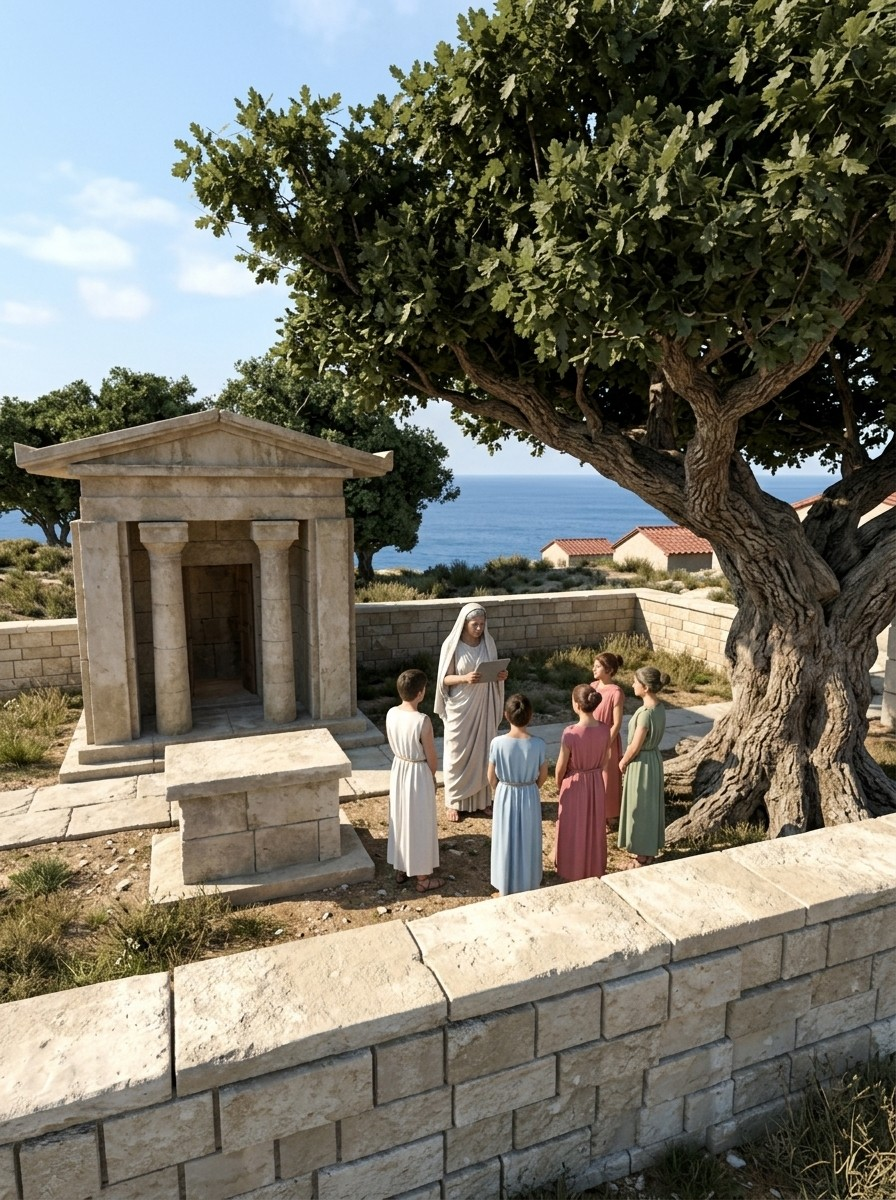
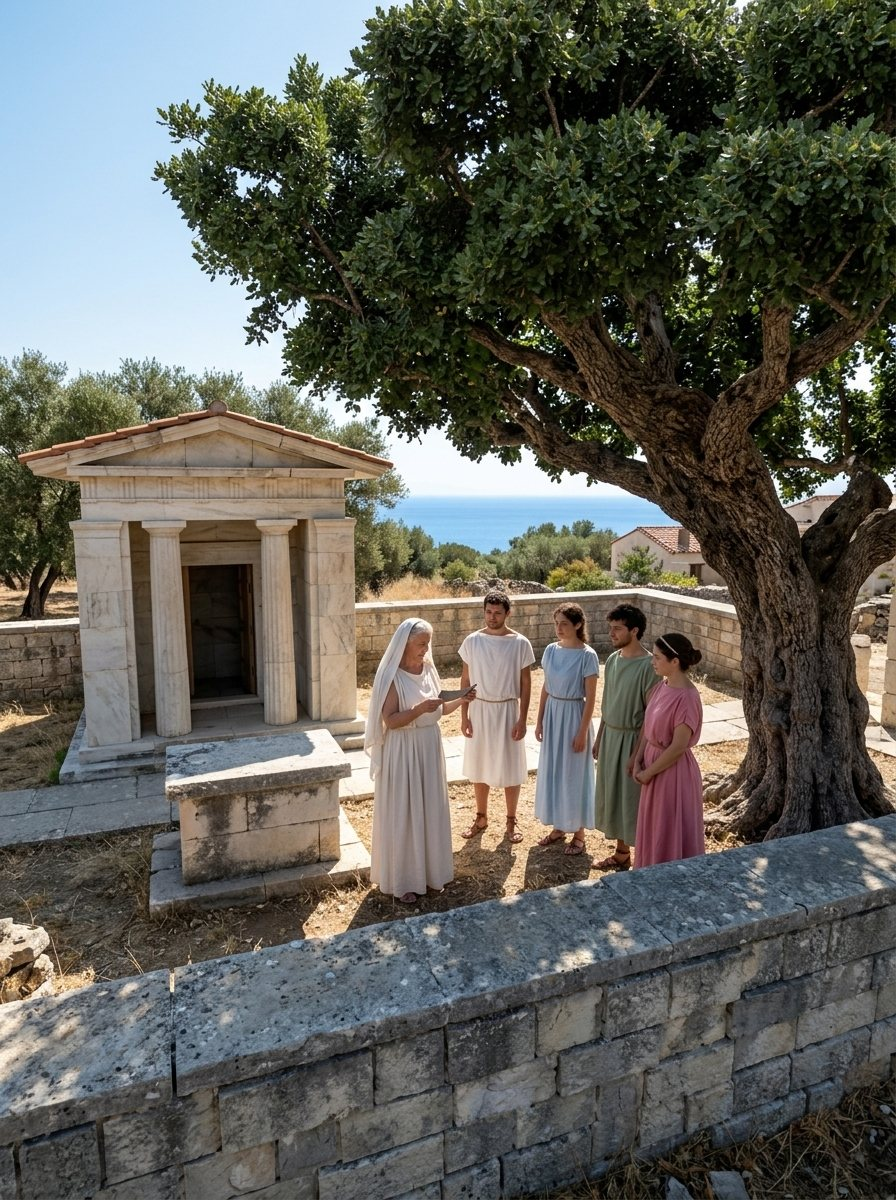
Knowing When to Wait cover and the crown's sealed bundle: regenerated pictures.
The oracle's students are adults (two men, two women) instead of children,
and the bundle's three seals carry their owners' numbers (Ι, ΙΙ, ΙΙΙ)
instead of pictures. Both come from the image-pipeline trial; their prompts
are now in shots.json, the alt texts say what is shown, and the pictures
are on R2. scratch/ moves above the block images.py rewrites in .gitignore,
which had dropped it.

Claude-Session: https://claude.ai/code/session_01TFFF6KRoothWGmAKo9RzqW

diff --git a/books/changing-leaders-among-liars/index.html b/books/changing-leaders-among-liars/index.html
@@ -120,7 +120,7 @@
         <p class="lede"><span class="i">Every bandit does not need to write to every other bandit. Instead, each bandit sends their sealed <span class="coin">vote</span> to the registrar alone, and the registrar sends back the combined proof.</span><span class="m">Every replica does not need to message every other replica. Instead, each replica sends its signed <span class="coin">vote</span> to the leader alone, and the leader sends back the combined proof.</span></p>
         <p><span class="i">As soon as the registrar holds three matching sealed votes (including their own), they tie those three seals together into a single <span class="coin">bundle</span> (a <i>group certificate</i>, or <i>QC</i>) and send that bundle out to the other three posts. Any bandit who receives the bundle can trust it immediately, because no one can forge an honest bandit's wax seal: three distinct seals on one entry prove that three bandits voted for it, and with at most one liar among the four, at least two honest bandits must have approved it.</span><span class="m">As soon as the leader holds three matching signed votes (including its own), it combines those three signatures into a single <span class="coin">certificate</span> (a <i>quorum certificate</i>, or <i>QC</i>) and sends that certificate out to the other three replicas. Any replica that receives the certificate can trust it immediately, because no one can forge an honest replica’s signature: three distinct signatures on one block prove that three replicas voted for it, and with at most one faulty replica among the four, at least two honest replicas must have approved it.</span></p>
       </div>
-      <div class="pop fromright i"><div class="leaf"><div class="photo tilt-r" style="aspect-ratio:4/3"><img src="https://pub-c335d307e76c41618eb522e0049e35e2.r2.dev/changing-leaders-among-liars-c01-bundle-4bb33a2ead-800.avif" srcset="https://pub-c335d307e76c41618eb522e0049e35e2.r2.dev/changing-leaders-among-liars-c01-bundle-4bb33a2ead-400.avif 400w, https://pub-c335d307e76c41618eb522e0049e35e2.r2.dev/changing-leaders-among-liars-c01-bundle-4bb33a2ead-800.avif 800w, https://pub-c335d307e76c41618eb522e0049e35e2.r2.dev/changing-leaders-among-liars-c01-bundle-4bb33a2ead-1200.avif 1200w" sizes="(max-width: 700px) 90vw, 560px" data-local="img/c01-bundle.jpg" alt="At dusk at a chink in the foot of a ruined ring wall, a rat with several cords knotted together across its back, each cord ending in a dab of sealing wax stamped with its own mark" loading="lazy"></div></div></div>
+      <div class="pop fromright i"><div class="leaf"><div class="photo tilt-r" style="aspect-ratio:4/3"><img src="https://pub-c335d307e76c41618eb522e0049e35e2.r2.dev/changing-leaders-among-liars-c01-bundle-7996ae3686-800.avif" srcset="https://pub-c335d307e76c41618eb522e0049e35e2.r2.dev/changing-leaders-among-liars-c01-bundle-7996ae3686-400.avif 400w, https://pub-c335d307e76c41618eb522e0049e35e2.r2.dev/changing-leaders-among-liars-c01-bundle-7996ae3686-800.avif 800w, https://pub-c335d307e76c41618eb522e0049e35e2.r2.dev/changing-leaders-among-liars-c01-bundle-7996ae3686-1200.avif 1200w" sizes="(max-width: 700px) 90vw, 560px" data-local="img/c01-bundle.jpg" alt="At dusk at a chink in the foot of a ruined ring wall, a rat with three cords knotted together across its back, each cord ending in a dab of sealing wax stamped with its owner's number" loading="lazy"></div></div></div>
       <div class="pop fromright m"><div class="leaf"><svg class="cover-fig" data-crop="20 268 250 240" role="img" aria-label="Four replicas send votes to one leader, which sends one certificate back"></svg></div></div>
     </div>
     <p class="tell" style="margin-top:2.4rem"><span class="i">Compare the two communication patterns on the crown below, with Bandit 1 acting as registrar. Press each button and watch the rat count.</span><span class="m">Compare the two communication patterns below, with R1 acting as leader. Press each button and watch the message count.</span></p>

diff --git a/art/scroll/parts/changing-leaders-among-liars/body.html b/art/scroll/parts/changing-leaders-among-liars/body.html
@@ -101,7 +101,7 @@
         <p class="lede">Every man need not write to every man. Each man sends their sealed <span class="coin">vote</span> to the registrar alone, and the registrar tells the rest what the votes came to.</p>
         <p>When the registrar has three matching votes, the registrar ties them into a <span class="coin">bundle</span> and sends the bundle to everyone. A bundle can be trusted because nobody can forge a seal. Three seals prove that three men voted, and so, with one liar among the four, that at least two honest men did.</p>
       </div>
-      <div class="pop fromright"><div class="leaf"><div class="photo tilt-r" style="aspect-ratio:4/3"><img src="https://pub-c335d307e76c41618eb522e0049e35e2.r2.dev/changing-leaders-among-liars-c01-bundle-4bb33a2ead-800.avif" srcset="https://pub-c335d307e76c41618eb522e0049e35e2.r2.dev/changing-leaders-among-liars-c01-bundle-4bb33a2ead-400.avif 400w, https://pub-c335d307e76c41618eb522e0049e35e2.r2.dev/changing-leaders-among-liars-c01-bundle-4bb33a2ead-800.avif 800w, https://pub-c335d307e76c41618eb522e0049e35e2.r2.dev/changing-leaders-among-liars-c01-bundle-4bb33a2ead-1200.avif 1200w" sizes="(max-width: 700px) 90vw, 560px" data-local="img/c01-bundle.jpg" alt="At dusk at a chink in the foot of a ruined ring wall, a rat with several cords knotted together across its back, each cord ending in a dab of sealing wax stamped with its own mark" loading="lazy"></div></div></div>
+      <div class="pop fromright"><div class="leaf"><div class="photo tilt-r" style="aspect-ratio:4/3"><img src="https://pub-c335d307e76c41618eb522e0049e35e2.r2.dev/changing-leaders-among-liars-c01-bundle-7996ae3686-800.avif" srcset="https://pub-c335d307e76c41618eb522e0049e35e2.r2.dev/changing-leaders-among-liars-c01-bundle-7996ae3686-400.avif 400w, https://pub-c335d307e76c41618eb522e0049e35e2.r2.dev/changing-leaders-among-liars-c01-bundle-7996ae3686-800.avif 800w, https://pub-c335d307e76c41618eb522e0049e35e2.r2.dev/changing-leaders-among-liars-c01-bundle-7996ae3686-1200.avif 1200w" sizes="(max-width: 700px) 90vw, 560px" data-local="img/c01-bundle.jpg" alt="At dusk at a chink in the foot of a ruined ring wall, a rat with three cords knotted together across its back, each cord ending in a dab of sealing wax stamped with its owner's number" loading="lazy"></div></div></div>
     </div>
     <p class="tell" style="margin-top:2.4rem">The crown below runs one stage each way, with bandit 1 as registrar. Press each button in turn and watch the count of rats.</p>
     <div class="pop"><div class="leaf"><div class="paper well" style="margin-top:1.2rem">

diff --git a/art/scroll/parts/knowing-when-to-wait/body.html b/art/scroll/parts/knowing-when-to-wait/body.html
@@ -20,7 +20,7 @@
     <div class="pop m" data-auto><div class="leaf"><svg class="cover-fig" id="coversvg" role="img" aria-label="Two columns: on the left a deadlock cycle and growing bars of answers that never retract, on the right an unreachable object and an answer taken back, with coordination-free equal to monotonic below"></svg></div></div>
     <div class="pop i" data-auto>
       <div class="leaf">
-        <div class="photo tilt-r" data-depth="14"><img src="https://pub-c335d307e76c41618eb522e0049e35e2.r2.dev/knowing-when-to-wait-cover-ec05ccc5bd-800.avif" srcset="https://pub-c335d307e76c41618eb522e0049e35e2.r2.dev/knowing-when-to-wait-cover-ec05ccc5bd-400.avif 400w, https://pub-c335d307e76c41618eb522e0049e35e2.r2.dev/knowing-when-to-wait-cover-ec05ccc5bd-800.avif 800w, https://pub-c335d307e76c41618eb522e0049e35e2.r2.dev/knowing-when-to-wait-cover-ec05ccc5bd-896.avif 896w" sizes="(max-width: 700px) 90vw, 560px" data-local="img/cover.jpg" alt="Inside the oracle at the fork: an older priestess in a white robe and veil reads a small folded strip of lead beside a plain stone altar, four young students in chitons of white, pale blue, pink and green waiting before her, a small temple with two columns behind them, a great oak at the right and the sea beyond the wall"></div>
+        <div class="photo tilt-r" data-depth="14"><img src="https://pub-c335d307e76c41618eb522e0049e35e2.r2.dev/knowing-when-to-wait-cover-a954a28b7c-800.avif" srcset="https://pub-c335d307e76c41618eb522e0049e35e2.r2.dev/knowing-when-to-wait-cover-a954a28b7c-400.avif 400w, https://pub-c335d307e76c41618eb522e0049e35e2.r2.dev/knowing-when-to-wait-cover-a954a28b7c-800.avif 800w, https://pub-c335d307e76c41618eb522e0049e35e2.r2.dev/knowing-when-to-wait-cover-a954a28b7c-896.avif 896w" sizes="(max-width: 700px) 90vw, 560px" data-local="img/cover.jpg" alt="Inside the oracle at the fork: an older priestess in a white robe and veil reads a small folded strip of lead beside a plain stone altar, four students, two young men and two young women in chitons of white, pale blue, green and pink, waiting before her, a small temple with two columns behind them, a great oak at the right and the sea beyond the wall"></div>
         <div class="fold-shadow"></div>
       </div>
     </div>

diff --git a/books/knowing-when-to-wait/index.html b/books/knowing-when-to-wait/index.html
@@ -35,7 +35,7 @@
     <div class="pop m" data-auto><div class="leaf"><svg class="cover-fig" id="coversvg" role="img" aria-label="Two columns: on the left a deadlock cycle and growing bars of answers that never retract, on the right an unreachable object and an answer taken back, with coordination-free equal to monotonic below"></svg></div></div>
     <div class="pop i" data-auto>
       <div class="leaf">
-        <div class="photo tilt-r" data-depth="14"><img src="https://pub-c335d307e76c41618eb522e0049e35e2.r2.dev/knowing-when-to-wait-cover-ec05ccc5bd-800.avif" srcset="https://pub-c335d307e76c41618eb522e0049e35e2.r2.dev/knowing-when-to-wait-cover-ec05ccc5bd-400.avif 400w, https://pub-c335d307e76c41618eb522e0049e35e2.r2.dev/knowing-when-to-wait-cover-ec05ccc5bd-800.avif 800w, https://pub-c335d307e76c41618eb522e0049e35e2.r2.dev/knowing-when-to-wait-cover-ec05ccc5bd-896.avif 896w" sizes="(max-width: 700px) 90vw, 560px" data-local="img/cover.jpg" alt="Inside the oracle at the fork: an older priestess in a white robe and veil reads a small folded strip of lead beside a plain stone altar, four young students in chitons of white, pale blue, pink and green waiting before her, a small temple with two columns behind them, a great oak at the right and the sea beyond the wall"></div>
+        <div class="photo tilt-r" data-depth="14"><img src="https://pub-c335d307e76c41618eb522e0049e35e2.r2.dev/knowing-when-to-wait-cover-a954a28b7c-800.avif" srcset="https://pub-c335d307e76c41618eb522e0049e35e2.r2.dev/knowing-when-to-wait-cover-a954a28b7c-400.avif 400w, https://pub-c335d307e76c41618eb522e0049e35e2.r2.dev/knowing-when-to-wait-cover-a954a28b7c-800.avif 800w, https://pub-c335d307e76c41618eb522e0049e35e2.r2.dev/knowing-when-to-wait-cover-a954a28b7c-896.avif 896w" sizes="(max-width: 700px) 90vw, 560px" data-local="img/cover.jpg" alt="Inside the oracle at the fork: an older priestess in a white robe and veil reads a small folded strip of lead beside a plain stone altar, four students, two young men and two young women in chitons of white, pale blue, green and pink, waiting before her, a small temple with two columns behind them, a great oak at the right and the sea beyond the wall"></div>
         <div class="fold-shadow"></div>
       </div>
     </div>

diff --git a/index.html b/index.html
@@ -455,7 +455,7 @@
     </a>
     <div class="bks n1">
       <div class="pop"><article class="leaf paper bk" id="b-calm" data-key="calm"><a class="cardlink" href="books/knowing-when-to-wait/index.html">
-        <div class="photo i"><img src="https://pub-c335d307e76c41618eb522e0049e35e2.r2.dev/knowing-when-to-wait-cover-ec05ccc5bd-800.avif" srcset="https://pub-c335d307e76c41618eb522e0049e35e2.r2.dev/knowing-when-to-wait-cover-ec05ccc5bd-400.avif 400w, https://pub-c335d307e76c41618eb522e0049e35e2.r2.dev/knowing-when-to-wait-cover-ec05ccc5bd-800.avif 800w, https://pub-c335d307e76c41618eb522e0049e35e2.r2.dev/knowing-when-to-wait-cover-ec05ccc5bd-896.avif 896w" sizes="(max-width: 700px) 80vw, 370px" data-local="assets/img/covers/knowing-when-to-wait.jpg" alt="" loading="lazy"></div>
+        <div class="photo i"><img src="https://pub-c335d307e76c41618eb522e0049e35e2.r2.dev/knowing-when-to-wait-cover-a954a28b7c-800.avif" srcset="https://pub-c335d307e76c41618eb522e0049e35e2.r2.dev/knowing-when-to-wait-cover-a954a28b7c-400.avif 400w, https://pub-c335d307e76c41618eb522e0049e35e2.r2.dev/knowing-when-to-wait-cover-a954a28b7c-800.avif 800w, https://pub-c335d307e76c41618eb522e0049e35e2.r2.dev/knowing-when-to-wait-cover-a954a28b7c-896.avif 896w" sizes="(max-width: 700px) 80vw, 370px" data-local="assets/img/covers/knowing-when-to-wait.jpg" alt="" loading="lazy"></div>
         <div class="cvr m"><svg data-cover="knowing-when-to-wait" role="img" aria-label="Two columns: on the left a deadlock cycle and growing bars of answers that never retract, on the right an unreachable object and an answer taken back, with coordination-free equal to monotonic below"></svg></div>
         <div class="body">
           <h3>Knowing When to Wait</h3>

diff --git a/places/oracle-at-the-fork/index.html b/places/oracle-at-the-fork/index.html
@@ -196,7 +196,7 @@
     <h2>The Books Set Here</h2>
     <div class="cards3 books">
       <div class="pop"><div class="leaf paper card3 tall"><a class="cardlink" href="../../books/knowing-when-to-wait/index.html">
-        <div class="photo"><img src="https://pub-c335d307e76c41618eb522e0049e35e2.r2.dev/knowing-when-to-wait-cover-ec05ccc5bd-800.avif" srcset="https://pub-c335d307e76c41618eb522e0049e35e2.r2.dev/knowing-when-to-wait-cover-ec05ccc5bd-400.avif 400w, https://pub-c335d307e76c41618eb522e0049e35e2.r2.dev/knowing-when-to-wait-cover-ec05ccc5bd-800.avif 800w, https://pub-c335d307e76c41618eb522e0049e35e2.r2.dev/knowing-when-to-wait-cover-ec05ccc5bd-896.avif 896w" sizes="(max-width: 700px) 80vw, 370px" data-local="../../assets/img/covers/knowing-when-to-wait.jpg" alt="" loading="lazy"></div>
+        <div class="photo"><img src="https://pub-c335d307e76c41618eb522e0049e35e2.r2.dev/knowing-when-to-wait-cover-a954a28b7c-800.avif" srcset="https://pub-c335d307e76c41618eb522e0049e35e2.r2.dev/knowing-when-to-wait-cover-a954a28b7c-400.avif 400w, https://pub-c335d307e76c41618eb522e0049e35e2.r2.dev/knowing-when-to-wait-cover-a954a28b7c-800.avif 800w, https://pub-c335d307e76c41618eb522e0049e35e2.r2.dev/knowing-when-to-wait-cover-a954a28b7c-896.avif 896w" sizes="(max-width: 700px) 80vw, 370px" data-local="../../assets/img/covers/knowing-when-to-wait.jpg" alt="" loading="lazy"></div>
         <div class="body"><h3>Knowing When to Wait</h3><p>Which work lets a group of students live as scholars, and which makes them live as legislators, and why the answer is the work\'s shape.</p><span class="credit">Hellerstein 2010 · Ameloot et al. 2011 · Hellerstein &amp; Alvaro 2020</span></div>
       </a></div></div>
     </div>
